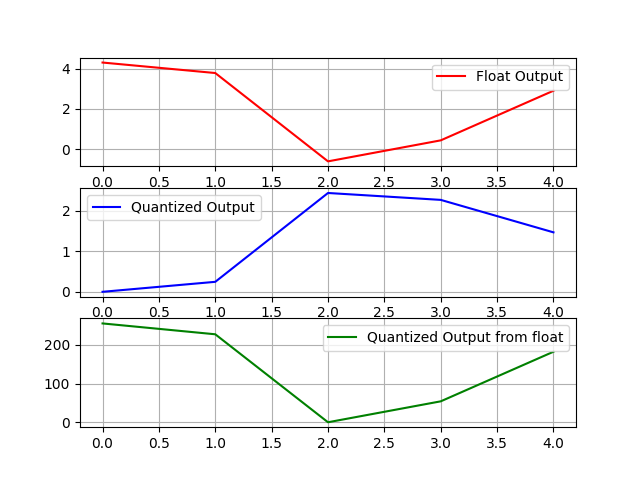
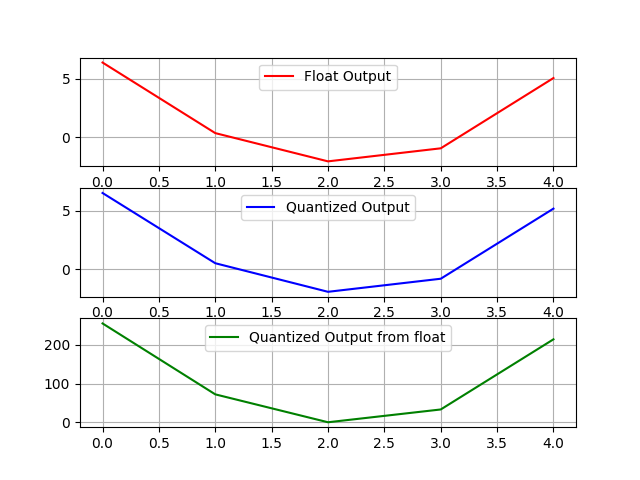
modified:   python/multi_xb_VMM.py 	modified:   results/Input_reconstruction.png 	modified:   results/Quantized_output_comparison.png 	new file:   results/Quantized_output_sum_comparison.png 	modified:   results/VMM_with_multi_XB.png

diff --git a/python/multi_xb_VMM.py b/python/multi_xb_VMM.py
@@ -80,6 +80,7 @@ def VMM_with_multi_XB(voltages, conductances, v_range, g_range, num_xbars, num_s
         max_out: the maximum value of each output matrix, the size is (num_xbars, )
         min_out: the minimum value of each output matrix, the size is (num_xbars, )
     '''
+    use_float_bias = False
     total_min_v = np.min(voltages)
     
     # Quantize the conductances to integers in the range "g_range" column-wise
@@ -154,13 +155,22 @@ def VMM_with_multi_XB(voltages, conductances, v_range, g_range, num_xbars, num_s
         np.clip(
             np.floor((out - min_out[i, :]) / (max_out[i, :] - min_out[i, :]) * 255).astype(int), 
             0, 255)]
-    a[i, :], b[i, :] = 1, v_range[0] - total_min_v
+    a[i, :], b[i, :] = v_range[0] / total_min_v, 0
     (qtz_output_deduct[i, :, :],
      rescale_factor[i, :], rescale_bias[i, :]) = Deduct_VM(qtz_output[i, :, :], 
                                                            a[i, :], b[i, :], c, d, 
                                                            max_out[i, :], min_out[i, :], 
-                                                           total_min_v_qtz_vec, 
+                                                           total_min_v_vec, 
                                                            conductances)
+    
+    if use_float_bias:
+        current_float_output = float_output[i, :, :]
+        min_out, max_out = np.min(current_float_output), np.max(current_float_output)
+        codes_out = np.arange(0, 256, dtype=int)
+        qtz_output_deduct[i, :, :] = codes_out[
+            np.clip(
+                np.floor((current_float_output - min_out) / (max_out - min_out) * 255).astype(int), 
+                0, 255)]
     
     return qtz_input, qtz_input_index, input_interval_widths, \
            qtz_conductances, total_min_v, a, c, rescale_factor, rescale_bias, \
@@ -184,18 +194,17 @@ def Reconstruct_output(qtz_input, qtz_input_index, input_interval_widths,
         recover_input: the reconstructed input voltage vectors (Nxl)
         recover_output: the reconstructed output vector (Nxm)
     '''
-    num_xbars = qtz_input.shape[0]
+    num_xbars = qtz_output.shape[0]
     recover_input = np.sum(qtz_input_index * input_interval_widths.reshape(-1, 1, 1), axis=0) + total_min_v
     
     recover_output = np.zeros(qtz_output.shape[1:])
     for i in range(num_xbars):
-        recover_output += (qtz_output[i, :, :] * rescale_factor[i, :] + rescale_bias[i, :]) / (a[i] * c)
-    # recover_output += (qtz_output[-1, :, :] * rescale_factor[-1, :] + rescale_bias[-1, :]) / c
+        recover_output += (qtz_output[i, :, :] * rescale_factor[i, :] + rescale_bias[i, :]) / (a[i] * c)    #  * rescale_factor[i, :] + rescale_bias[i, :]
     
     return recover_input, recover_output
 
 
-def Compare_qtz_with_flout_out(qtz_output, float_output, c):
+def Compare_qtz_with_flout_out(qtz_output, float_output, a, c, rescale_factor, rescale_bias):
     '''
     Parameters:
         qtz_output: quantized output vector (Nxm), where N is the number of vectors and m is the output vector length
@@ -204,11 +213,24 @@ def Compare_qtz_with_flout_out(qtz_output, float_output, c):
     Returns:
         qtz_output: quantized output vector (Nxm), where N is the number of vectors and m is the output vector length
     '''
+    bias = True
     num_xbars = qtz_output.shape[0]
     qtz_outs = np.zeros((num_xbars, qtz_output.shape[1], qtz_output.shape[2]))
+    float_output_sum = np.zeros(float_output.shape[1:])
+    qtz_output_sum = np.zeros(qtz_output.shape[1:])
     for i in range(num_xbars):
-        current_qtz_output = qtz_output[i, :, :] / c
+        if not bias and i == num_xbars - 1:
+            continue
+        current_qtz_output = qtz_output[i, :, :]
+        current_qtz_output = current_qtz_output * rescale_factor[i, :]
+        current_qtz_output = current_qtz_output + rescale_bias[i, :]
+        current_qtz_output = current_qtz_output / (c * a[i])
+        
         current_float_output = float_output[i, :, :]
+        
+        float_output_sum += current_float_output
+        qtz_output_sum += current_qtz_output
+        
         # Compute the qtz output of the current float output
         min_out, max_out = np.min(current_float_output), np.max(current_float_output)
         codes_out = np.arange(0, 256, dtype=int)
@@ -216,8 +238,7 @@ def Compare_qtz_with_flout_out(qtz_output, float_output, c):
             np.clip(
                 np.floor((current_float_output - min_out) / (max_out - min_out) * 255).astype(int), 
                 0, 255)]
-        # Compare the "current_qtz_output" with "qtz_out"
-        # assert np.allclose(current_qtz_output, qtz_out), "The quantized output is not correct"
+        
         qtz_outs[i, :, :] = qtz_out
         # Plot the current_float_output and current_qtz_output and qtz_out in 3 subplots
         fig = plt.figure()
@@ -236,6 +257,32 @@ def Compare_qtz_with_flout_out(qtz_output, float_output, c):
         plt.legend()
         plt.grid(True)
         plt.savefig('results/Quantized_output_comparison.png')
+    
+    # Compute the qtz output of the total float output
+    min_out, max_out = np.min(float_output_sum), np.max(float_output_sum)
+    codes_out = np.arange(0, 256, dtype=int)
+    qtz_out = codes_out[
+        np.clip(
+            np.floor((float_output_sum - min_out) / (max_out - min_out) * 255).astype(int), 
+            0, 255)]
+    
+    # Plot the float_output_sum and qtz_output_sum and qtz_out in 3 subplots
+    fig = plt.figure()
+    ax1 = fig.add_subplot(311)
+    ax1.plot(np.arange(float_output_sum.shape[1]), float_output_sum[0], 'r', label='Float Output Sum')
+    plt.legend()
+    plt.grid(True)
+    
+    ax2 = fig.add_subplot(312)
+    ax2.plot(np.arange(qtz_output_sum.shape[1]), qtz_output_sum[0], 'b', label='Quantized Output Sum')
+    plt.legend()
+    plt.grid(True)
+    
+    ax3 = fig.add_subplot(313)
+    ax3.plot(np.arange(qtz_out.shape[1]), qtz_out[0], 'g', label='Quantized Output from float')
+    plt.legend()
+    plt.grid(True)
+    plt.savefig('results/Quantized_output_sum_comparison.png')
         
     return qtz_outs
 
@@ -257,7 +304,7 @@ if __name__ == '__main__':
      qtz_conductances, total_min_v, a, c, rescale_factor, rescale_bias,\
      qtz_output, qtz_output_deduct, float_outputs) = VMM_with_multi_XB(voltages, conductances, v_range, g_range, num_xbars, num_steps)
     
-    true_qtz_out = Compare_qtz_with_flout_out(qtz_output_deduct, float_outputs, c)
+    true_qtz_out = Compare_qtz_with_flout_out(qtz_output_deduct, float_outputs, a, c, rescale_factor, rescale_bias)
     
     recover_input, recover_output = Reconstruct_output(qtz_input, qtz_input_index, input_interval_widths, 
                                                        total_min_v, qtz_output_deduct, a, c, rescale_factor, rescale_bias)
